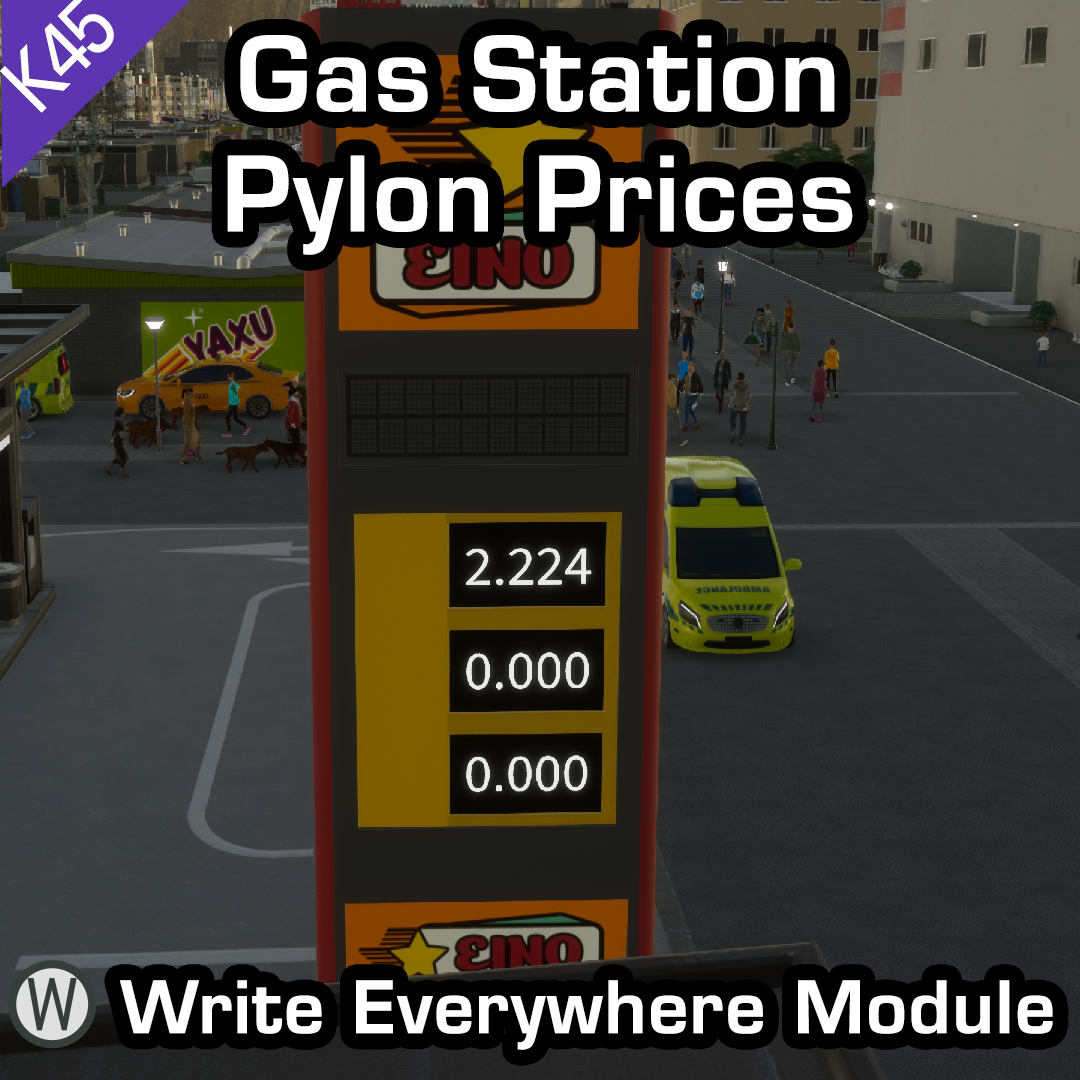
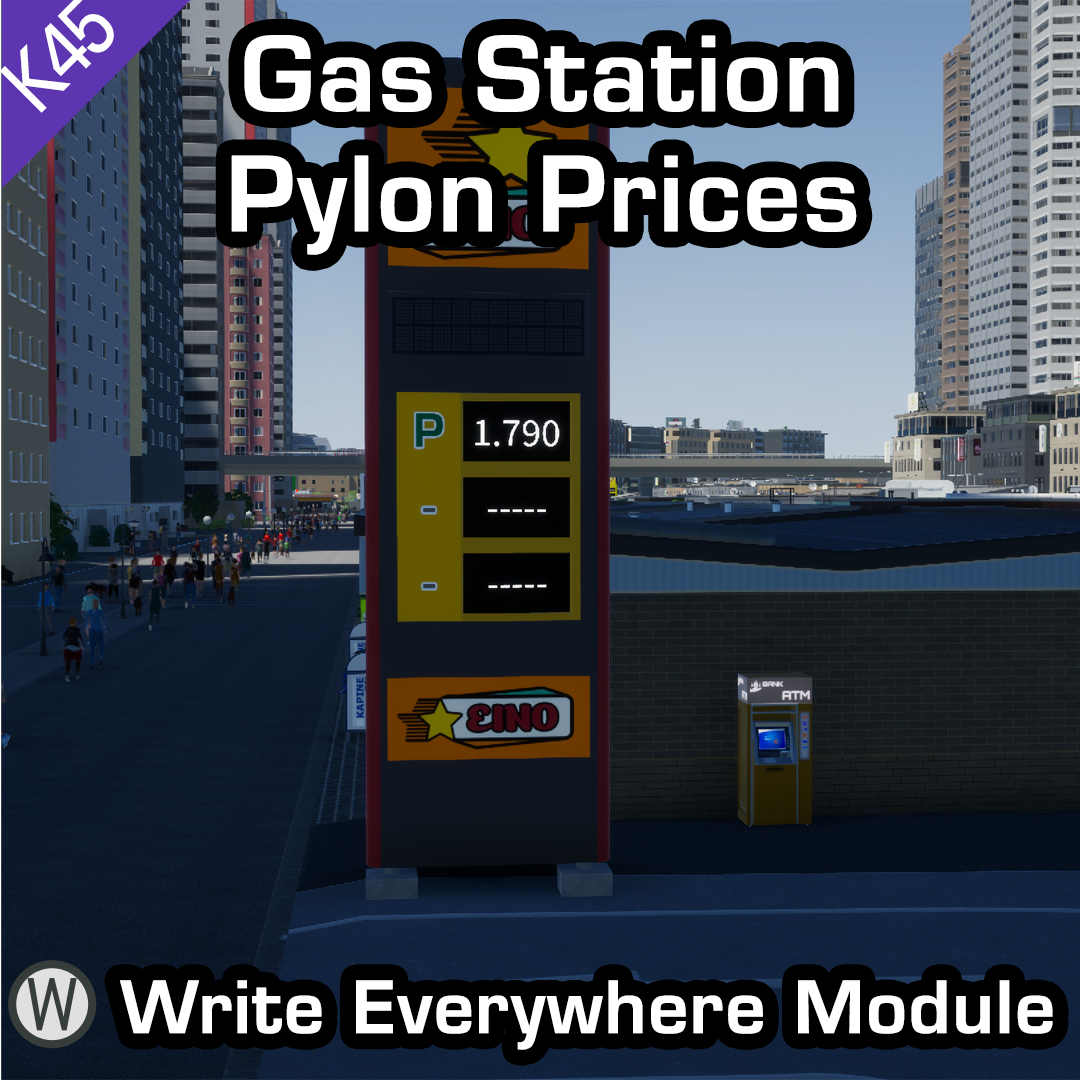
v1.0.0r2 Updating changelog, screenshots and description Minor fixes

diff --git a/_BaseModule/FnLibrary.cs b/_BaseModule/FnLibrary.cs
@@ -9,6 +9,7 @@ namespace K45WE_GasStationPylonPrices
     public static class FnLibrary
     {
         private readonly static EntityManager em = World.DefaultGameObjectInjectionWorld.EntityManager;
+
         public static DynamicBuffer<TradeCost> GetSellingProducts(Entity src)
             => em.TryGetBuffer(src, true, out DynamicBuffer<Renter> renters)
             && renters.Length > 0
@@ -16,10 +17,6 @@ namespace K45WE_GasStationPylonPrices
                 ? trades
                 : default;
 
-        public static string ToFormattedPrice(float price)
-        {
-            if (price <= 0) return "-,---";
-            return WENumberFormattingFn.To4DigitsValue(price);
-        }       
+        public static string ToFormattedPrice(float price) => price <= 0 ? "-----" : WENumberFormattingFn.To4DigitsValue(price);
     }
 }

diff --git a/_BaseModule/README.md b/_BaseModule/README.md
@@ -1,7 +1,9 @@
 # Gas station pylon prices
 
-This Write Everywhere module adds layouts that contains information about current prices of the 3 first products sold at a gas station. Since all gas stations only sell Petrochemicals at this moment, so the first price will always be the Petrochemicals sell price and the others will stay zeroed.
+This Write Everywhere module adds layouts that contains information about current prices of the 3 first products sold at a gas station. Since all gas stations only sell Petrochemicals at this moment, so the first price will always be the Petrochemicals sell price and the others will show fully as hyphens.
 
-All price totems from vanilla game gas stations have layouts in this pack. The font used to display the prices is the **_DEFAULT_LED**
+Now also shows at each line an icon representing the resource being sold at that price, the atlas is replaceable as well by following WE rules: Export the atlas from this mod; Move to `imageAtlases` folder; Edit the images; Replace it at Prefab Templates Setup tab on WE window.
 
-Tip: you can select the formatting locale for the numbers in the  Write Everywhere tab at game Options menu.
+All price totems from vanilla game gas stations have layouts in this pack. The font used to display the prices is the **_DEFAULT_LED**, replaceable at Prefab Templates Setup tab at WE window (circled W button).
+
+Tip: you can select the formatting locale for the numbers in the Write Everywhere tab at game Options menu.

diff --git a/_BaseModule/changelog.md b/_BaseModule/changelog.md
@@ -1,2 +1,3 @@
-#  v1.0.0r1
-Now loads on main menu by default
+#  v1.0.0r2
+- Simplified layouts (based on WE 0.3.1 feature)
+- Added resource icon at side of the prices (with customizable atlas)
